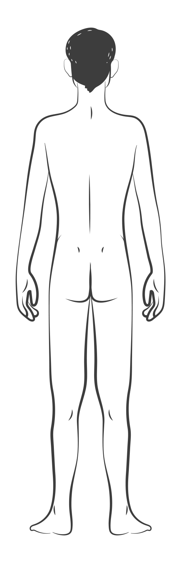
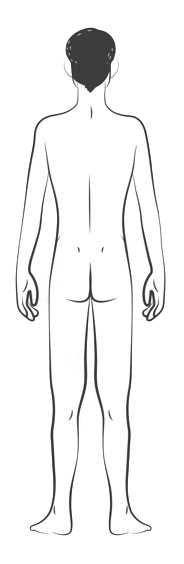
Corregir alineacion de los resaltados sobre las fotos del cuerpo

diff --git a/src/app/features/cuerpo/cuerpo.component.ts b/src/app/features/cuerpo/cuerpo.component.ts
@@ -35,14 +35,14 @@ const FIELDS: MeasureField[] = [
 // calculadas a partir de las fotos que subió el usuario (proporciones de
 // una figura de pie, brazos ligeramente separados del cuerpo).
 const FRONT_OVERLAYS: Overlay[] = [
-  { group: "Hombro", top: 15, left: 16, width: 16, height: 8 },
-  { group: "Hombro", top: 15, left: 68, width: 16, height: 8 },
+  { group: "Hombro", top: 15, left: 20, width: 14, height: 8 },
+  { group: "Hombro", top: 15, left: 66, width: 14, height: 8 },
   { group: "Pecho", top: 21, left: 30, width: 40, height: 11 },
   { group: "Abdomen", top: 31, left: 34, width: 32, height: 12 },
-  { group: "Bíceps", top: 24, left: 6, width: 13, height: 15 },
-  { group: "Bíceps", top: 24, left: 81, width: 13, height: 15 },
-  { group: "Antebrazo", top: 38, left: 2, width: 11, height: 15 },
-  { group: "Antebrazo", top: 38, left: 87, width: 11, height: 15 },
+  { group: "Bíceps", top: 24, left: 12, width: 11, height: 15 },
+  { group: "Bíceps", top: 24, left: 77, width: 11, height: 15 },
+  { group: "Antebrazo", top: 38, left: 8, width: 10, height: 15 },
+  { group: "Antebrazo", top: 38, left: 82, width: 10, height: 15 },
   { group: "Pierna", top: 50, left: 30, width: 17, height: 21 },
   { group: "Pierna", top: 50, left: 53, width: 17, height: 21 },
   { group: "Pierna", top: 72, left: 31, width: 15, height: 17 },
@@ -50,14 +50,14 @@ const FRONT_OVERLAYS: Overlay[] = [
 ];
 
 const BACK_OVERLAYS: Overlay[] = [
-  { group: "Hombro", top: 15, left: 16, width: 16, height: 8 },
-  { group: "Hombro", top: 15, left: 68, width: 16, height: 8 },
+  { group: "Hombro", top: 15, left: 20, width: 14, height: 8 },
+  { group: "Hombro", top: 15, left: 66, width: 14, height: 8 },
   { group: "Espalda", top: 20, left: 30, width: 40, height: 16 },
   { group: "Glúteo", top: 38, left: 32, width: 36, height: 10 },
-  { group: "Tríceps", top: 24, left: 6, width: 13, height: 15 },
-  { group: "Tríceps", top: 24, left: 81, width: 13, height: 15 },
-  { group: "Antebrazo", top: 38, left: 2, width: 11, height: 15 },
-  { group: "Antebrazo", top: 38, left: 87, width: 11, height: 15 },
+  { group: "Tríceps", top: 24, left: 12, width: 11, height: 15 },
+  { group: "Tríceps", top: 24, left: 77, width: 11, height: 15 },
+  { group: "Antebrazo", top: 38, left: 8, width: 10, height: 15 },
+  { group: "Antebrazo", top: 38, left: 82, width: 10, height: 15 },
   { group: "Pierna", top: 50, left: 30, width: 17, height: 21 },
   { group: "Pierna", top: 50, left: 53, width: 17, height: 21 },
   { group: "Pierna", top: 72, left: 31, width: 15, height: 17 },
@@ -261,8 +261,8 @@ const BACK_OVERLAYS: Overlay[] = [
     .figure-col { display: flex; flex-direction: column; align-items: center; }
     .figure-label { font-family: var(--font-head); font-size: 11px; letter-spacing: 0.06em; text-transform: uppercase; color: var(--ink-soft); margin: 0 0 8px; }
     .body-svg { width: 150px; height: 300px; }
-    .photo-wrap { position: relative; width: 150px; height: 340px; }
-    .body-photo { width: 100%; height: 100%; object-fit: contain; }
+    .photo-wrap { position: relative; width: 150px; display: inline-block; line-height: 0; }
+    .body-photo { width: 100%; height: auto; display: block; }
     .overlay-blob { position: absolute; border-radius: 50%; opacity: 0.5; mix-blend-mode: multiply; pointer-events: none; }
     .legend { display: flex; flex-direction: column; gap: 8px; }
     .legend-row { display: grid; grid-template-columns: 14px 90px 1fr 110px; align-items: center; gap: 10px; font-size: 12.5px; }
@@ -321,5 +321,3 @@ export class CuerpoComponent {
     return intensityColor(found ? found.score : 0);
   }
 }
-
-
